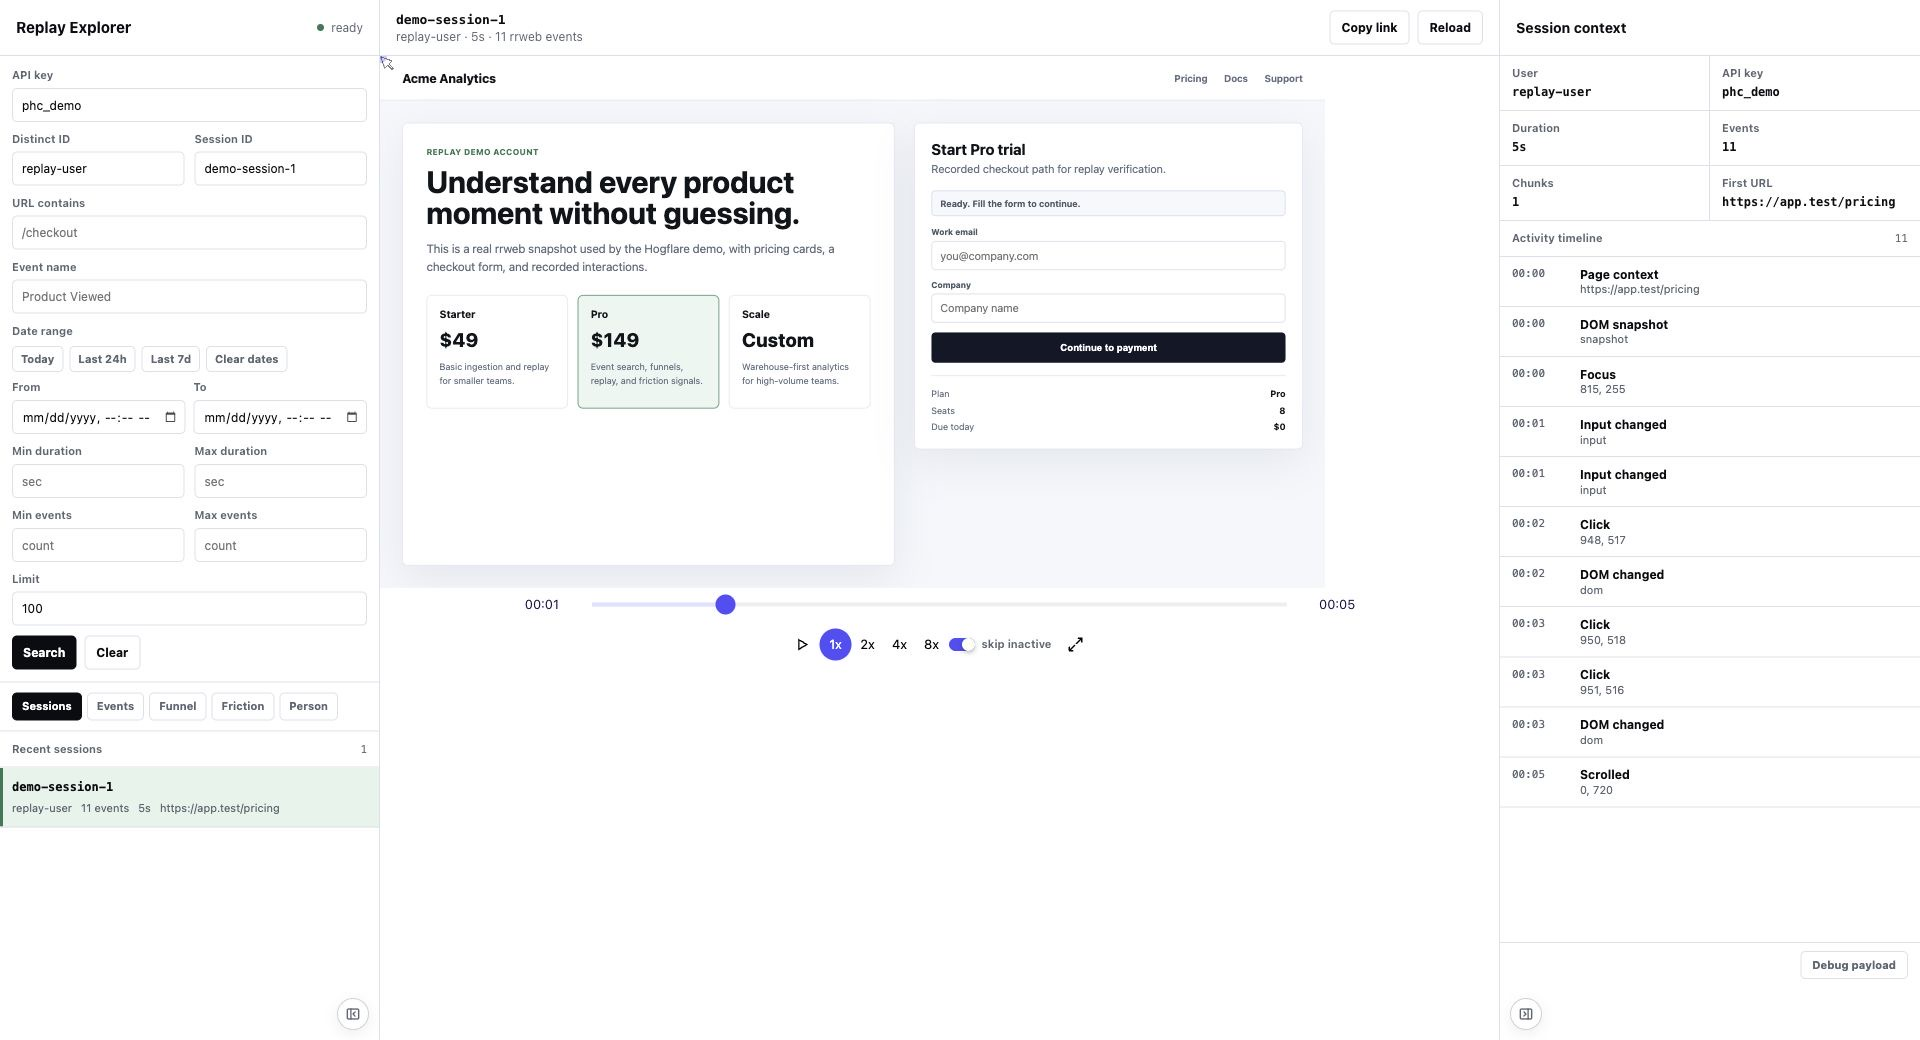
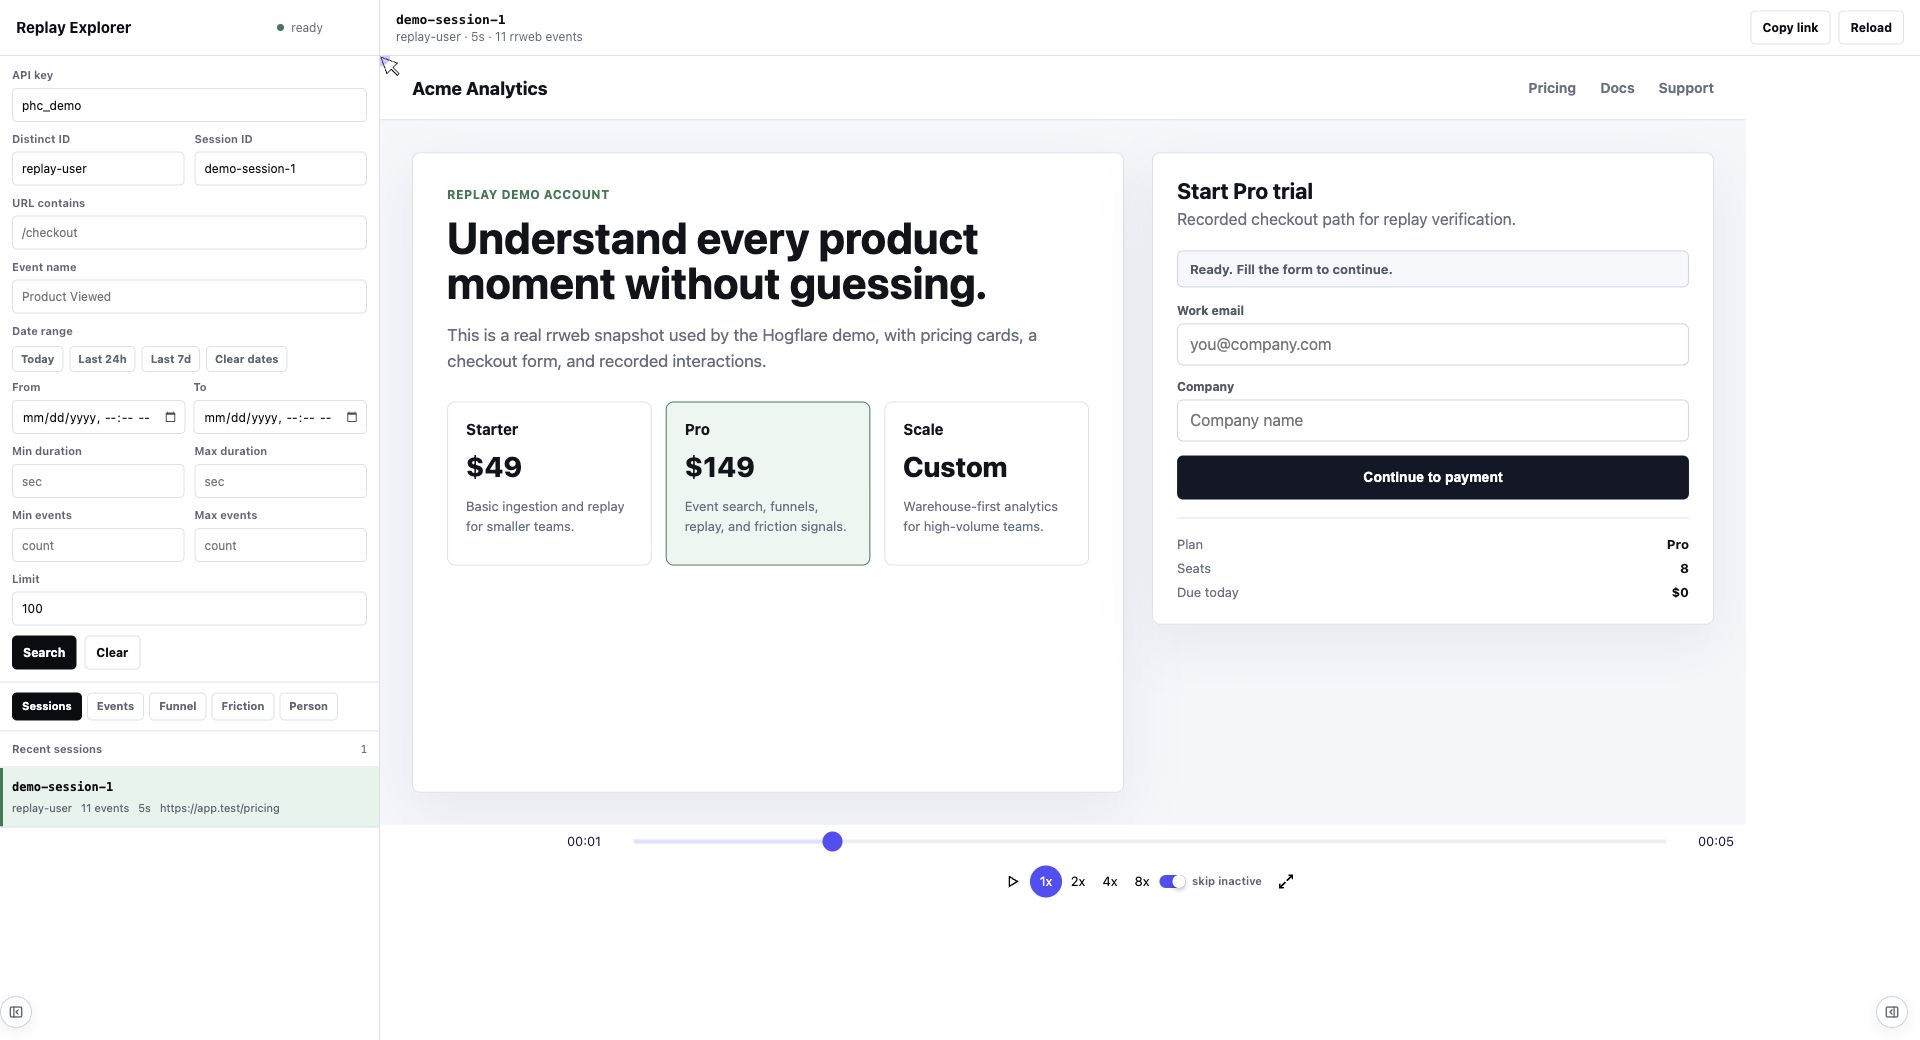
Fix replay panel collapse layout

diff --git a/src/replay_ui.html b/src/replay_ui.html
@@ -66,11 +66,11 @@
       }
 
       .app.rail-collapsed {
-        --rail-track: 44px;
+        --rail-track: 0px;
       }
 
       .app.inspector-collapsed {
-        --inspector-track: 44px;
+        --inspector-track: 0px;
       }
 
       .rail,
@@ -81,8 +81,9 @@
       }
 
       .rail {
+        position: relative;
         display: grid;
-        grid-template-rows: minmax(0, 1fr) auto;
+        grid-template-rows: minmax(0, 1fr);
         border-right: 1px solid var(--line);
       }
 
@@ -99,12 +100,13 @@
       }
 
       .app.inspector-collapsed .stage {
-        border-right: 1px solid var(--line);
+        border-right: 0;
       }
 
       .inspector {
+        position: relative;
         display: grid;
-        grid-template-rows: minmax(0, 1fr) auto;
+        grid-template-rows: minmax(0, 1fr);
       }
 
       .inspector-content {
@@ -118,6 +120,14 @@
         display: none;
       }
 
+      .app.rail-collapsed .rail,
+      .app.inspector-collapsed .inspector {
+        border: 0;
+        background: transparent;
+        pointer-events: none;
+        z-index: 20;
+      }
+
       .topbar,
       .stage-head,
       .inspector-head {
@@ -129,12 +139,14 @@
       .inspector-head {
         display: flex;
         align-items: center;
+        padding-right: 56px;
       }
 
       .topbar {
         display: flex;
         align-items: center;
         justify-content: space-between;
+        padding-right: 56px;
       }
 
       h1,
@@ -423,20 +435,16 @@
       }
 
       .panel-dock {
+        position: absolute;
+        top: 12px;
+        right: 12px;
+        z-index: 10;
         display: flex;
         align-items: center;
-        min-height: 52px;
-        border-top: 1px solid transparent;
-        background: var(--surface);
-        padding: 10px;
-      }
-
-      .rail-dock {
-        justify-content: flex-end;
-      }
-
-      .inspector-dock {
-        justify-content: flex-start;
+        min-height: 0;
+        border-top: 0;
+        background: transparent;
+        padding: 0;
       }
 
       .panel-toggle {
@@ -479,11 +487,21 @@
 
       .app.rail-collapsed .panel-dock,
       .app.inspector-collapsed .panel-dock {
+        position: fixed;
+        top: auto;
+        right: auto;
+        bottom: 12px;
         align-items: flex-end;
         justify-content: center;
-        min-height: 0;
-        border-top: 0;
-        padding: 10px 6px;
+        pointer-events: auto;
+      }
+
+      .app.rail-collapsed .rail-dock {
+        left: 12px;
+      }
+
+      .app.inspector-collapsed .inspector-dock {
+        right: 12px;
       }
 
       @media (hover: hover) {
@@ -782,7 +800,7 @@
         }
 
         .app.rail-collapsed {
-          --rail-track: 44px;
+          --rail-track: 0px;
         }
 
         .app.inspector-collapsed {
@@ -796,7 +814,8 @@
         }
 
         .app.inspector-collapsed .inspector {
-          min-height: 44px;
+          min-height: 0;
+          border-top: 0;
         }
       }
 
